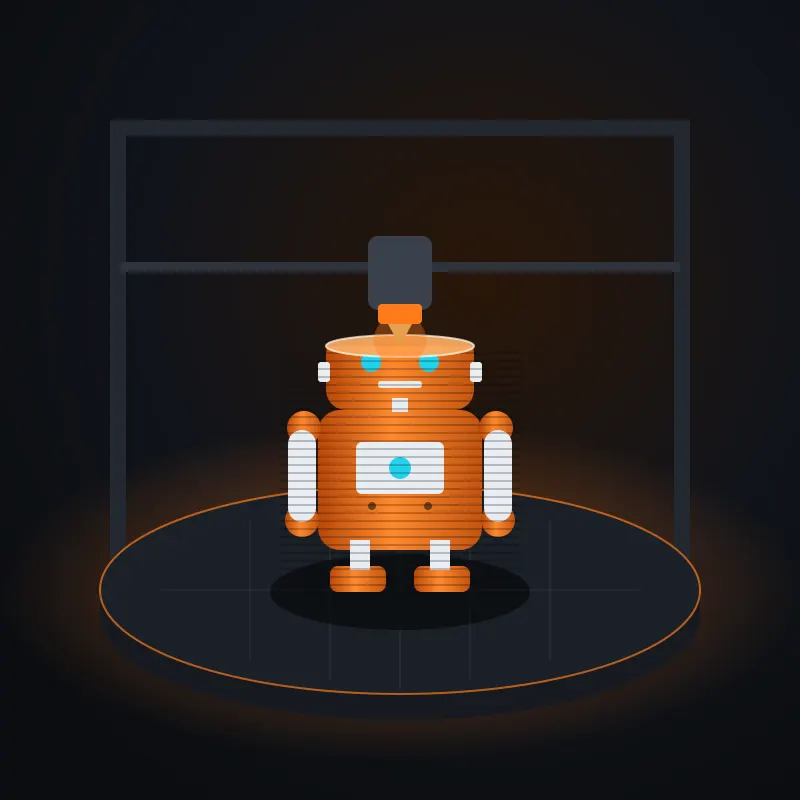
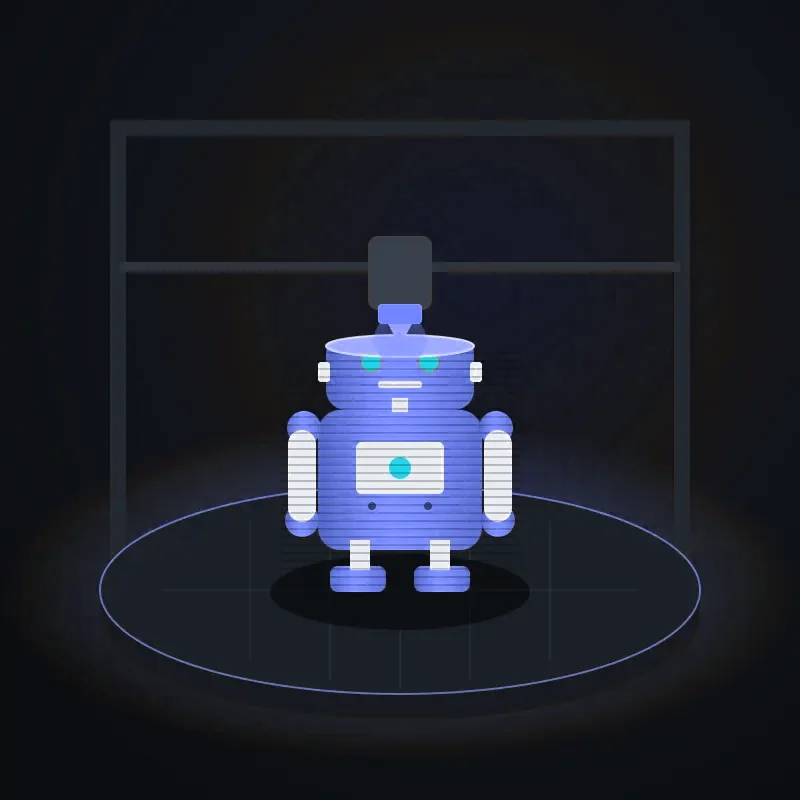
feat(frontend): update design tokens and color palette for improved UI consistency

diff --git a/app/assets/css/main.css b/app/assets/css/main.css
@@ -1,16 +1,17 @@
 @import "tailwindcss";
 
-/* Design tokens — placeholders until the Byte3D brand kit exists. Swap them here only. */
+/* Design tokens — blue/indigo palette taken from the ByteStackLab site (#6675F7 / #3533CD / #1E1B69). Swap them here only. */
 @theme {
-  --color-bg: #0b0d10;
-  --color-surface: #14171c;
-  --color-surface-2: #1c2027;
-  --color-border: #262b33;
-  --color-text: #f2f4f7;
-  --color-muted: #9aa3af;
-  --color-accent: #ff7a1a;
-  --color-accent-hover: #ff8f3d;
-  --color-accent-2: #22d3ee;
+  --color-bg: #0a0c1a;
+  --color-surface: #11142a;
+  --color-surface-2: #1a1e3b;
+  --color-border: #272c54;
+  --color-text: #f1f2ff;
+  --color-muted: #a3a9d0;
+  --color-accent: #6675f7;
+  --color-accent-hover: #8290fa;
+  --color-on-accent: #0a0c1a;
+  --color-accent-2: #68dbf2;
   --color-success: #22c55e;
   --color-danger: #ef4444;
 
@@ -21,7 +22,7 @@
   --radius-lg: 16px;
   --radius-xl: 24px;
 
-  --shadow-glow: 0 0 0 1px rgb(255 122 26 / 0.5), 0 8px 32px -8px rgb(255 122 26 / 0.35);
+  --shadow-glow: 0 0 0 1px rgb(102 117 247 / 0.5), 0 8px 32px -8px rgb(102 117 247 / 0.4);
 
   --animate-shimmer: shimmer 1.4s ease-in-out infinite;
   --animate-fade-up: fade-up 0.35s ease-out both;
@@ -46,34 +47,36 @@
 :root[data-theme="dark"] { color-scheme: dark; }
 :root[data-theme="light"] {
   color-scheme: light;
-  --color-bg: #f7f6f3;
+  --color-bg: #f6f7fd;
   --color-surface: #ffffff;
-  --color-surface-2: #efede8;
-  --color-border: #dedbd3;
-  --color-text: #14171c;
-  --color-muted: #586170;
-  --color-accent: #d4540a;
-  --color-accent-hover: #e8600f;
-  --color-accent-2: #0e7490;
+  --color-surface-2: #eceefb;
+  --color-border: #d9dcf0;
+  --color-text: #151833;
+  --color-muted: #53597e;
+  --color-accent: #3533cd;
+  --color-accent-hover: #4a48e0;
+  --color-on-accent: #ffffff;
+  --color-accent-2: #1d6fb8;
   --color-success: #15803d;
   --color-danger: #dc2626;
-  --shadow-glow: 0 0 0 1px rgb(212 84 10 / 0.45), 0 10px 30px -10px rgb(212 84 10 / 0.35);
+  --shadow-glow: 0 0 0 1px rgb(53 51 205 / 0.45), 0 10px 30px -10px rgb(53 51 205 / 0.35);
 }
 @media (prefers-color-scheme: light) {
   :root:not([data-theme]) {
     color-scheme: light;
-    --color-bg: #f7f6f3;
+    --color-bg: #f6f7fd;
     --color-surface: #ffffff;
-    --color-surface-2: #efede8;
-    --color-border: #dedbd3;
-    --color-text: #14171c;
-    --color-muted: #586170;
-    --color-accent: #d4540a;
-    --color-accent-hover: #e8600f;
-    --color-accent-2: #0e7490;
+    --color-surface-2: #eceefb;
+    --color-border: #d9dcf0;
+    --color-text: #151833;
+    --color-muted: #53597e;
+    --color-accent: #3533cd;
+    --color-accent-hover: #4a48e0;
+  --color-on-accent: #ffffff;
+    --color-accent-2: #1d6fb8;
     --color-success: #15803d;
     --color-danger: #dc2626;
-    --shadow-glow: 0 0 0 1px rgb(212 84 10 / 0.45), 0 10px 30px -10px rgb(212 84 10 / 0.35);
+    --shadow-glow: 0 0 0 1px rgb(53 51 205 / 0.45), 0 10px 30px -10px rgb(53 51 205 / 0.35);
   }
 }
 
@@ -101,7 +104,7 @@
     border-radius: 6px;
   }
   ::selection {
-    background: rgb(255 122 26 / 0.35);
+    background: rgb(102 117 247 / 0.35);
   }
   button, [role="button"], a { -webkit-tap-highlight-color: transparent; }
   img { max-width: 100%; }
@@ -152,18 +155,18 @@
   --shadow-ink: 0 0 0;
   --shadow-k: 1;
   position: relative;
-  background: linear-gradient(145deg, #323943 0%, #181c22 40%, #0c0e11 100%);
+  background: linear-gradient(145deg, #2c3166 0%, #161a3a 40%, #0a0c1a 100%);
   box-shadow:
     inset 0 1px 0 rgb(255 255 255 / 0.2),
     inset 0 -1px 0 rgb(0 0 0 / 0.6),
     0 2px 4px rgb(var(--shadow-ink) / calc(0.35 * var(--shadow-k))),
     0 18px 30px -12px rgb(var(--shadow-ink) / calc(0.55 * var(--shadow-k))),
     0 48px 80px -28px rgb(var(--shadow-ink) / calc(0.7 * var(--shadow-k))),
-    0 0 100px -30px rgb(255 122 26 / 0.4);
+    0 0 100px -30px rgb(102 117 247 / 0.45);
 }
-:root[data-theme="light"] .hero-stage { --shadow-ink: 20 23 28; --shadow-k: 0.6; }
+:root[data-theme="light"] .hero-stage { --shadow-ink: 21 24 51; --shadow-k: 0.6; }
 @media (prefers-color-scheme: light) {
-  :root:not([data-theme]) .hero-stage { --shadow-ink: 20 23 28; --shadow-k: 0.6; }
+  :root:not([data-theme]) .hero-stage { --shadow-ink: 21 24 51; --shadow-k: 0.6; }
 }
 /* soft contact shadow on the "floor" under the card */
 .hero-stage-floor {
@@ -176,9 +179,9 @@
   filter: blur(8px);
   opacity: 0.8;
 }
-:root[data-theme="light"] .hero-stage-floor { background: radial-gradient(closest-side, rgb(20 23 28 / 0.4), transparent); }
+:root[data-theme="light"] .hero-stage-floor { background: radial-gradient(closest-side, rgb(21 24 51 / 0.4), transparent); }
 @media (prefers-color-scheme: light) {
-  :root:not([data-theme]) .hero-stage-floor { background: radial-gradient(closest-side, rgb(20 23 28 / 0.4), transparent); }
+  :root:not([data-theme]) .hero-stage-floor { background: radial-gradient(closest-side, rgb(21 24 51 / 0.4), transparent); }
 }
 /* glass sheen + inner edge */
 .hero-sheen {

diff --git a/app/composables/usePrintScene.ts b/app/composables/usePrintScene.ts
@@ -71,7 +71,7 @@ export async function createPrintScene(opts: PrintSceneOptions): Promise<PrintSc
   const key = new THREE.DirectionalLight(0xffffff, 2.4)
   key.position.set(4, 8, 5)
   scene.add(key)
-  const rim = new THREE.DirectionalLight(0xff7a1a, 2.2)
+  const rim = new THREE.DirectionalLight(0x6675f7, 2.2)
   rim.position.set(-5, 3, -5)
   scene.add(rim)
 
@@ -134,11 +134,11 @@ export async function createPrintScene(opts: PrintSceneOptions): Promise<PrintSc
   grid.position.y = 0.002
   bed.add(grid)
 
-  // faint orange edge
+  // faint indigo edge
   const edgePts = roundedRect(BED - 0.12, BED - 0.12, 0.5).getPoints(12).map(p => new THREE.Vector3(p.x, 0.004, -p.y))
   const edge = new THREE.LineLoop(
     new THREE.BufferGeometry().setFromPoints(edgePts),
-    new THREE.LineBasicMaterial({ color: 0xff7a1a, transparent: true, opacity: 0.75 }),
+    new THREE.LineBasicMaterial({ color: 0x6675f7, transparent: true, opacity: 0.75 }),
   )
   bed.add(edge)
 
@@ -193,7 +193,7 @@ export async function createPrintScene(opts: PrintSceneOptions): Promise<PrintSc
   body.position.y = 0.62
   const block = new THREE.Mesh(
     new THREE.BoxGeometry(0.26, 0.16, 0.26),
-    new THREE.MeshStandardMaterial({ color: 0xff7a1a, roughness: 0.4, metalness: 0.5, emissive: 0xff4400, emissiveIntensity: 0.35 }),
+    new THREE.MeshStandardMaterial({ color: 0x6675f7, roughness: 0.4, metalness: 0.5, emissive: 0x3533cd, emissiveIntensity: 0.35 }),
   )
   block.position.y = 0.32
   const nozzleGeo = new THREE.ConeGeometry(0.09, 0.22, 16)
@@ -210,7 +210,7 @@ export async function createPrintScene(opts: PrintSceneOptions): Promise<PrintSc
   const uniforms = {
     uCut: { value: 0 },
     uBand: { value: 0.14 },
-    uGlow: { value: new THREE.Color(0xff7a1a) },
+    uGlow: { value: new THREE.Color(0x6675f7) },
     uK: { value: 2.2 },
     uLayer: { value: 0.085 },
   }
@@ -254,9 +254,9 @@ export async function createPrintScene(opts: PrintSceneOptions): Promise<PrintSc
 
   /** Mini robot: rounded torso and head, capsule arms, antenna. ~2.7 tall, bottom on y = 0. */
   function robot() {
-    const body = makeMaterial(0xff7a1a)
+    const body = makeMaterial(0x6675f7)
     const trim = makeMaterial(0xf2f4f7)
-    const glow = makeMaterial(0x22d3ee)
+    const glow = makeMaterial(0x68dbf2)
     const g = new THREE.Group()
     const put = (geo: ThreeTypes.BufferGeometry, mat: ThreeTypes.Material, x: number, y: number, z: number) => {
       const m = new THREE.Mesh(geo, mat)
@@ -305,9 +305,9 @@ export async function createPrintScene(opts: PrintSceneOptions): Promise<PrintSc
   /** Mini house: plinth, walls, gable roof, chimney, door and windows. ~2.7 tall, front faces +z. */
   function house() {
     const wall = makeMaterial(0xf2f4f7)
-    const roofMat = makeMaterial(0xff7a1a)
+    const roofMat = makeMaterial(0x6675f7)
     const brick = makeMaterial(0xc25410)
-    const glass = makeMaterial(0x22d3ee)
+    const glass = makeMaterial(0x68dbf2)
     const g = new THREE.Group()
     const put = (geo: ThreeTypes.BufferGeometry, mat: ThreeTypes.Material, x: number, y: number, z: number) => {
       const m = new THREE.Mesh(geo, mat)
@@ -357,7 +357,7 @@ export async function createPrintScene(opts: PrintSceneOptions): Promise<PrintSc
     hole.absarc(-1.0, 0.45, 0.2, 0, Math.PI * 2, true)
     s.holes.push(hole)
     const geo = new THREE.ExtrudeGeometry(s, { depth: 0.42, bevelEnabled: true, bevelSize: 0.05, bevelThickness: 0.05, bevelSegments: 2, curveSegments: 20 })
-    const mesh = new THREE.Mesh(geo, makeMaterial(0x22d3ee))
+    const mesh = new THREE.Mesh(geo, makeMaterial(0x68dbf2))
     // emboss: three raised bars standing in for text
     const barMat = makeMaterial(0xf2f4f7)
     const bars = new THREE.Group()
@@ -483,7 +483,7 @@ export async function createPrintScene(opts: PrintSceneOptions): Promise<PrintSc
       clipPlane.constant = h
       uniforms.uCut.value = h
       uniforms.uK.value = 2.2
-      uniforms.uGlow.value.setHex(0xff7a1a)
+      uniforms.uGlow.value.setHex(0x6675f7)
       model.rotation.y = 0
       const rx = (info.box.max.x - info.box.min.x) / 2 * 0.9
       const rz = (info.box.max.z - info.box.min.z) / 2 * 0.9
@@ -514,7 +514,7 @@ export async function createPrintScene(opts: PrintSceneOptions): Promise<PrintSc
       const h = H * (1 - smooth(p))
       clipPlane.constant = h
       uniforms.uCut.value = h
-      uniforms.uGlow.value.setHex(0xff7a1a)
+      uniforms.uGlow.value.setHex(0x6675f7)
       uniforms.uK.value = 1.6
       model.rotation.y = 0
       setHead(false)

diff --git a/app/components/product/ProductGallery.vue b/app/components/product/ProductGallery.vue
@@ -32,10 +32,10 @@ const tabBtn = 'min-h-11 rounded-full px-4 text-sm font-medium transition'
 <template>
   <div>
     <div v-if="modelUrl" class="mb-3 flex gap-2" role="tablist" aria-label="Product media">
-      <button type="button" role="tab" :aria-selected="tab === 'photos'" :class="[tabBtn, tab === 'photos' ? 'bg-accent text-black' : 'bg-surface-2 text-muted hover:text-text']" @click="tab = 'photos'">
+      <button type="button" role="tab" :aria-selected="tab === 'photos'" :class="[tabBtn, tab === 'photos' ? 'bg-accent text-on-accent' : 'bg-surface-2 text-muted hover:text-text']" @click="tab = 'photos'">
         <UiIcon name="image" :size="16" class="mr-1 inline" /> Photos
       </button>
-      <button type="button" role="tab" :aria-selected="tab === '3d'" :class="[tabBtn, tab === '3d' ? 'bg-accent text-black' : 'bg-surface-2 text-muted hover:text-text']" @click="tab = '3d'">
+      <button type="button" role="tab" :aria-selected="tab === '3d'" :class="[tabBtn, tab === '3d' ? 'bg-accent text-on-accent' : 'bg-surface-2 text-muted hover:text-text']" @click="tab = '3d'">
         <UiIcon name="rotate" :size="16" class="mr-1 inline" /> View in 3D
       </button>
     </div>
@@ -79,7 +79,7 @@ const tabBtn = 'min-h-11 rounded-full px-4 text-sm font-medium transition'
         <!-- Live preview of the customer's text on the product (decorative; the field itself is the source of truth). -->
         <Transition enter-active-class="transition duration-200" enter-from-class="opacity-0 translate-y-2" leave-active-class="transition duration-150" leave-to-class="opacity-0">
           <div v-if="previewText" class="pointer-events-none absolute inset-x-4 bottom-5 flex flex-col items-center gap-1" aria-hidden="true">
-            <span class="max-w-full truncate rounded-lg bg-bg/70 px-5 py-2 font-display text-2xl font-bold tracking-wide text-accent shadow-[0_0_24px_rgb(255_122_26/0.45)] ring-1 ring-accent/50 backdrop-blur sm:text-3xl">
+            <span class="max-w-full truncate rounded-lg bg-bg/70 px-5 py-2 font-display text-2xl font-bold tracking-wide text-accent shadow-[0_0_24px_rgb(102_117_247/0.45)] ring-1 ring-accent/50 backdrop-blur sm:text-3xl">
               {{ previewText }}
             </span>
             <span class="text-[11px] uppercase tracking-widest text-muted">Live preview</span>

diff --git a/app/pages/custom-keyring.vue b/app/pages/custom-keyring.vue
@@ -144,7 +144,7 @@ const input = 'h-12 w-full rounded-md border border-border bg-surface-2 px-4 tex
               <div role="radiogroup" aria-label="Product type" class="inline-flex rounded-full border border-border bg-surface-2 p-1">
                 <label v-for="t in KEYRING_TYPES" :key="t.id" class="cursor-pointer">
                   <input v-model="type" type="radio" name="kr-type" :value="t.id" class="peer sr-only">
-                  <span class="block min-h-9 whitespace-nowrap rounded-full px-4 py-2 text-sm font-medium text-muted transition peer-checked:bg-accent peer-checked:text-black peer-focus-visible:outline-2 peer-focus-visible:outline-accent">{{ t.label }}</span>
+                  <span class="block min-h-9 whitespace-nowrap rounded-full px-4 py-2 text-sm font-medium text-muted transition peer-checked:bg-accent peer-checked:text-on-accent peer-focus-visible:outline-2 peer-focus-visible:outline-accent">{{ t.label }}</span>
                 </label>
               </div>
             </div>
@@ -218,7 +218,7 @@ const input = 'h-12 w-full rounded-md border border-border bg-surface-2 px-4 tex
 :class="`kr-f-${f.id}`" class="block truncate py-1 leading-tight"
                     :style="{ fontSize: f.width > 0.7 ? '1.125rem' : '1.5rem' }">{{ filled[0] || 'Your Name' }}</span>
                   <span class="mt-1.5 block text-xs text-muted">{{ f.label }}</span>
-                  <span class="absolute right-2 top-2 grid size-5 place-items-center rounded-full bg-accent text-black opacity-0 transition group-has-[:checked]:opacity-100">
+                  <span class="absolute right-2 top-2 grid size-5 place-items-center rounded-full bg-accent text-on-accent opacity-0 transition group-has-[:checked]:opacity-100">
                     <UiIcon name="check" :size="12" />
                   </span>
                 </label>

diff --git a/app/components/home/HeroSection.vue b/app/components/home/HeroSection.vue
@@ -13,7 +13,7 @@ const trust = [
 
 <template>
   <section class="relative isolate overflow-hidden">
-    <div aria-hidden="true" class="pointer-events-none absolute inset-0 -z-10 bg-[radial-gradient(60%_50%_at_75%_30%,rgb(255_122_26/0.14),transparent_70%),radial-gradient(40%_40%_at_10%_80%,rgb(34_211_238/0.07),transparent_70%)]" />
+    <div aria-hidden="true" class="pointer-events-none absolute inset-0 -z-10 bg-[radial-gradient(60%_50%_at_75%_30%,rgb(102_117_247/0.16),transparent_70%),radial-gradient(40%_40%_at_10%_80%,rgb(104_219_242/0.08),transparent_70%)]" />
 
     <div class="container-page grid items-center gap-8 py-10 md:py-16 lg:grid-cols-2 lg:gap-12">
       <!-- Text is SSR HTML and the LCP element; the canvas never blocks it. -->
@@ -50,7 +50,7 @@ const trust = [
       >
         <div class="hero-stage-floor" aria-hidden="true" />
         <div class="hero-stage rounded-[1.6rem] p-[7px]">
-          <div class="relative aspect-[4/3] overflow-hidden rounded-[1.15rem] bg-[#0b0d10] sm:aspect-square">
+          <div class="relative aspect-[4/3] overflow-hidden rounded-[1.15rem] bg-[#0a0c1a] sm:aspect-square">
             <!-- Static poster: shown first, stays for low-end devices / no WebGL / save-data. -->
             <NuxtImg
               src="/images/hero-poster.webp"

diff --git a/app/components/layout/AppLogo.vue b/app/components/layout/AppLogo.vue
@@ -1,8 +1,8 @@
 <template>
   <NuxtLink to="/" class="group inline-flex items-center gap-2.5" aria-label="Byte3D — home">
     <svg width="30" height="30" viewBox="0 0 32 32" fill="none" aria-hidden="true" class="transition duration-300 group-hover:rotate-[-8deg] group-hover:scale-110">
-      <path d="M16 3l11 6v14l-11 6-11-6V9z" stroke="#FF7A1A" stroke-width="2.2" stroke-linejoin="round" />
-      <path d="M5 9l11 6 11-6M16 15v14" stroke="#FF7A1A" stroke-width="2.2" stroke-linejoin="round" />
+      <path d="M16 3l11 6v14l-11 6-11-6V9z" stroke="#6675F7" stroke-width="2.2" stroke-linejoin="round" />
+      <path d="M5 9l11 6 11-6M16 15v14" stroke="#6675F7" stroke-width="2.2" stroke-linejoin="round" />
     </svg>
     <span class="font-display text-xl font-bold tracking-tight">Byte<span class="text-accent">3D</span></span>
   </NuxtLink>

diff --git a/app/app.vue b/app/app.vue
@@ -3,7 +3,7 @@ const config = useRuntimeConfig()
 const { resolved } = useTheme()
 
 // Browser UI colour (mobile address bar) follows the active theme.
-useHead({ meta: [{ name: 'theme-color', content: () => (resolved.value === 'light' ? '#F7F6F3' : '#0B0D10') }] })
+useHead({ meta: [{ name: 'theme-color', content: () => (resolved.value === 'light' ? '#F6F7FD' : '#0A0C1A') }] })
 
 useHead({
   titleTemplate: title => (title && !title.includes('Byte3D') ? `${title} | Byte3D` : title || 'Byte3D — Custom 3D Printing in Bangladesh'),
@@ -32,7 +32,7 @@ useHead({
 
 <template>
   <NuxtRouteAnnouncer />
-  <NuxtLoadingIndicator color="#FF7A1A" :height="2" />
+  <NuxtLoadingIndicator color="#6675F7" :height="2" />
   <NuxtLayout>
     <NuxtPage />
   </NuxtLayout>

diff --git a/app/components/shop/ShopView.vue b/app/components/shop/ShopView.vue
@@ -72,7 +72,7 @@ watch(page, () => {
             @click="drawerOpen = true"
           >
             <UiIcon name="filter" :size="18" /> Filter
-            <span v-if="activeCount" class="grid size-5 place-items-center rounded-full bg-accent text-xs font-bold text-black">{{ activeCount }}</span>
+            <span v-if="activeCount" class="grid size-5 place-items-center rounded-full bg-accent text-xs font-bold text-on-accent">{{ activeCount }}</span>
           </button>
           <div class="flex-1 sm:w-52 sm:flex-none">
             <ShopSortSelect :model-value="sort" @update:model-value="v => update({ sort: v === 'newest' ? undefined : v })" />

diff --git a/app/components/ui/Button.vue b/app/components/ui/Button.vue
@@ -12,7 +12,7 @@ const props = withDefaults(defineProps<{
 const tag = computed(() => (props.to ? resolveComponent('NuxtLink') : props.href ? 'a' : 'button'))
 
 const variants = {
-  primary: 'bg-accent text-black hover:bg-accent-hover shadow-[0_0_0_0_rgb(255_122_26/0)] hover:shadow-[0_8px_28px_-8px_rgb(255_122_26/0.6)]',
+  primary: 'bg-accent text-on-accent hover:bg-accent-hover shadow-[0_0_0_0_rgb(102_117_247/0)] hover:shadow-[0_8px_28px_-8px_rgb(102_117_247/0.6)]',
   secondary: 'border border-border bg-surface-2 text-text hover:border-accent/60 hover:text-accent',
   ghost: 'text-muted hover:text-text hover:bg-surface-2',
 } as const

diff --git a/app/components/layout/CartButton.vue b/app/components/layout/CartButton.vue
@@ -13,7 +13,7 @@ const label = computed(() => (cart.hydrated && cart.count ? `Cart, ${cart.count}
     <UiIcon name="cart" :size="22" />
     <span
       v-if="cart.hydrated && cart.count"
-      class="absolute right-0.5 top-0.5 grid min-w-5 place-items-center rounded-full bg-accent px-1 text-[11px] font-bold leading-5 text-black"
+      class="absolute right-0.5 top-0.5 grid min-w-5 place-items-center rounded-full bg-accent px-1 text-[11px] font-bold leading-5 text-on-accent"
       aria-hidden="true"
     >
       {{ cart.count > 99 ? '99+' : cart.count }}

diff --git a/app/components/shop/Pagination.vue b/app/components/shop/Pagination.vue
@@ -40,7 +40,7 @@ const base = 'grid size-11 place-items-center rounded-md border text-sm font-med
           :to="link(p)"
           :aria-label="`Page ${p}`"
           :aria-current-value="p === current ? 'page' : 'false'"
-          :class="[base, p === current ? 'border-accent bg-accent text-black' : 'border-border hover:border-accent hover:text-accent']"
+          :class="[base, p === current ? 'border-accent bg-accent text-on-accent' : 'border-border hover:border-accent hover:text-accent']"
         >
           {{ p }}
         </NuxtLink>

diff --git a/app/components/keyring/KeyringPreview.vue b/app/components/keyring/KeyringPreview.vue
@@ -125,7 +125,7 @@ const label = computed(() => `Preview of a ${tag.value ? 'bag tag' : 'keyring'} 
     linear-gradient(rgb(20 23 28 / 0.07) 1px, transparent 1px),
     linear-gradient(90deg, rgb(20 23 28 / 0.07) 1px, transparent 1px);
   background-size: auto, 24px 24px, 24px 24px;
-  box-shadow: inset 0 0 0 1px rgb(255 255 255 / 0.35), 0 0 60px -28px rgb(255 122 26 / 0.45);
+  box-shadow: inset 0 0 0 1px rgb(255 255 255 / 0.35), 0 0 60px -28px rgb(102 117 247 / 0.45);
 }
 .kr-fade { transition: fill 0.2s, stroke 0.2s; }
 
